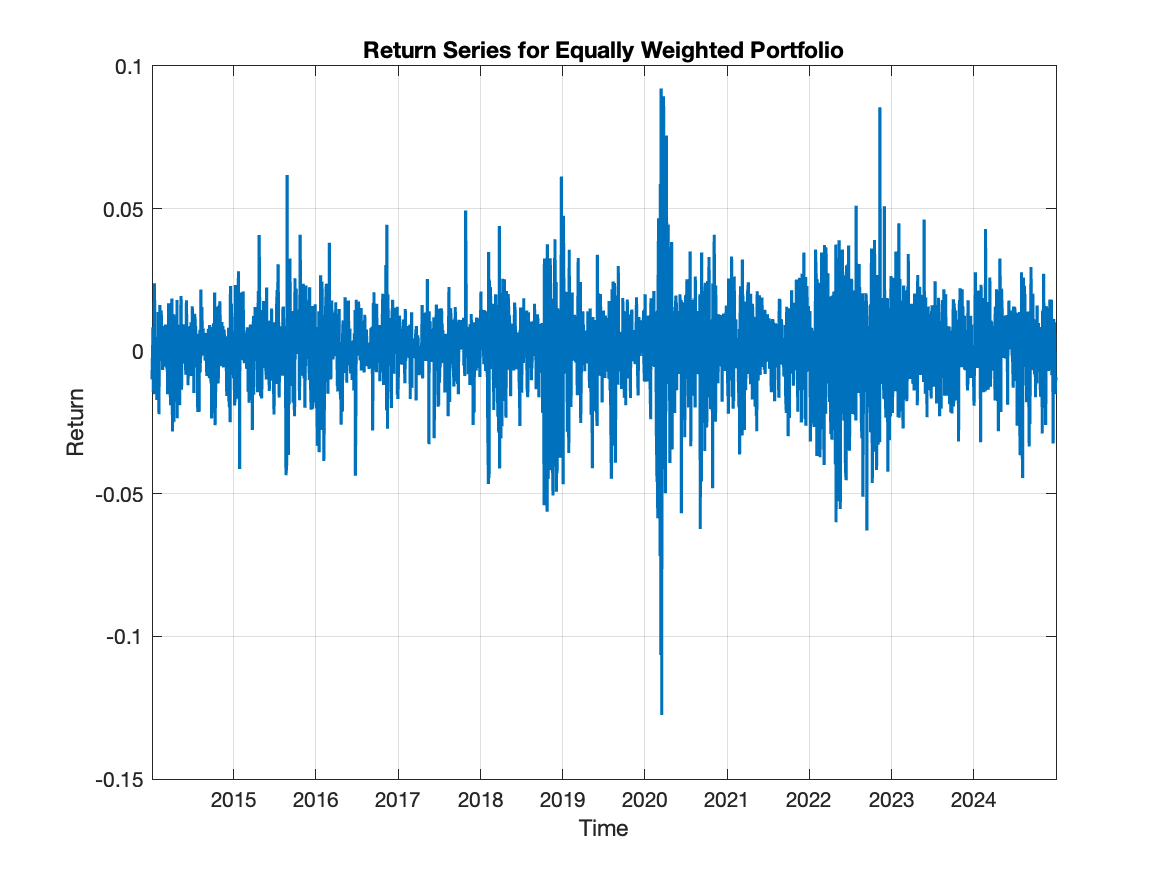
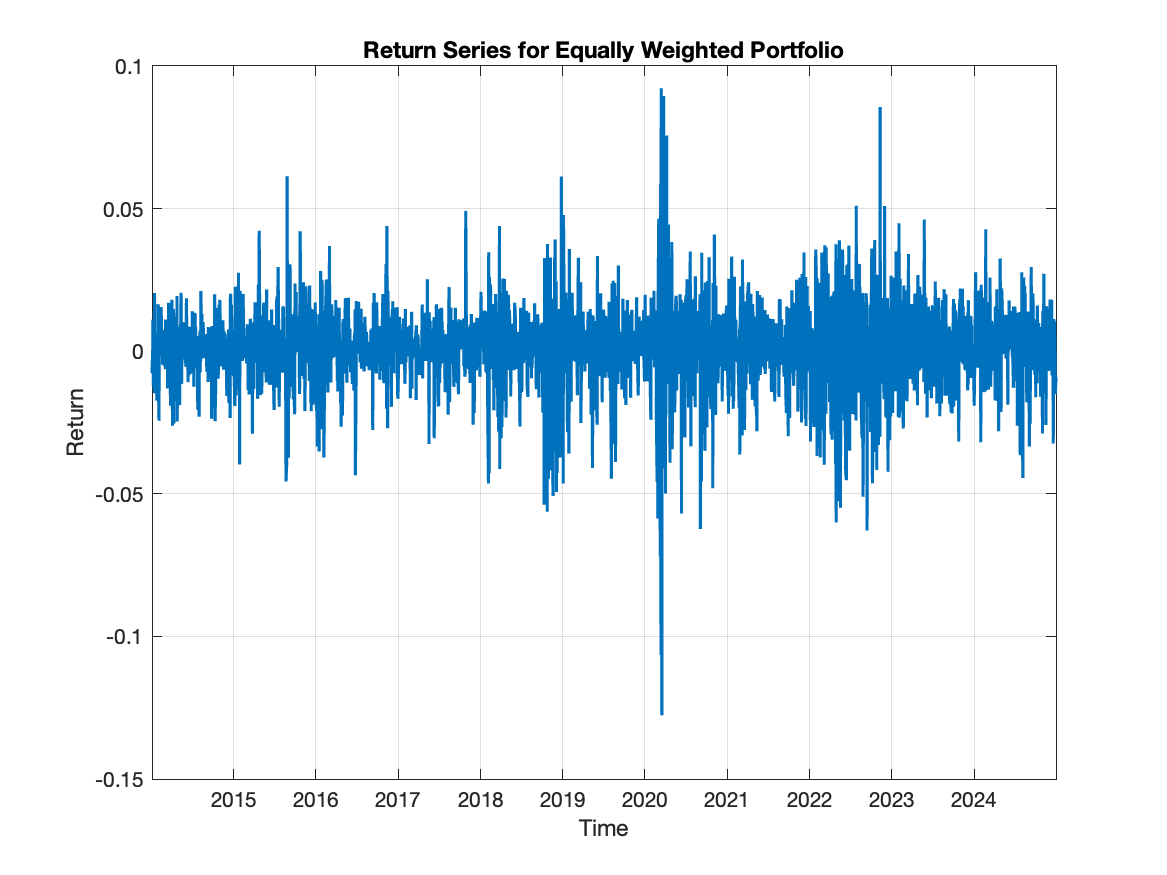
Fixed a small bug with q1

diff --git a/q1.m b/q1.m
@@ -23,9 +23,7 @@ dataset = readtable(filename, 'MissingRule', 'omitrow');
 colLabels = dataset.Properties.VariableNames;
 tickers = colLabels(2:end); % Extract tickers
 histPrices = dataset{:, 2:end}; % Historical prices
-histPrices = flipud(histPrices);
 histDates = dataset{:, 1}; % Historical dates
-histDates = flipud(histDates);
 [NObs, NAsset] = size(histPrices);
 tradeDates = histDates(2:end);
 
